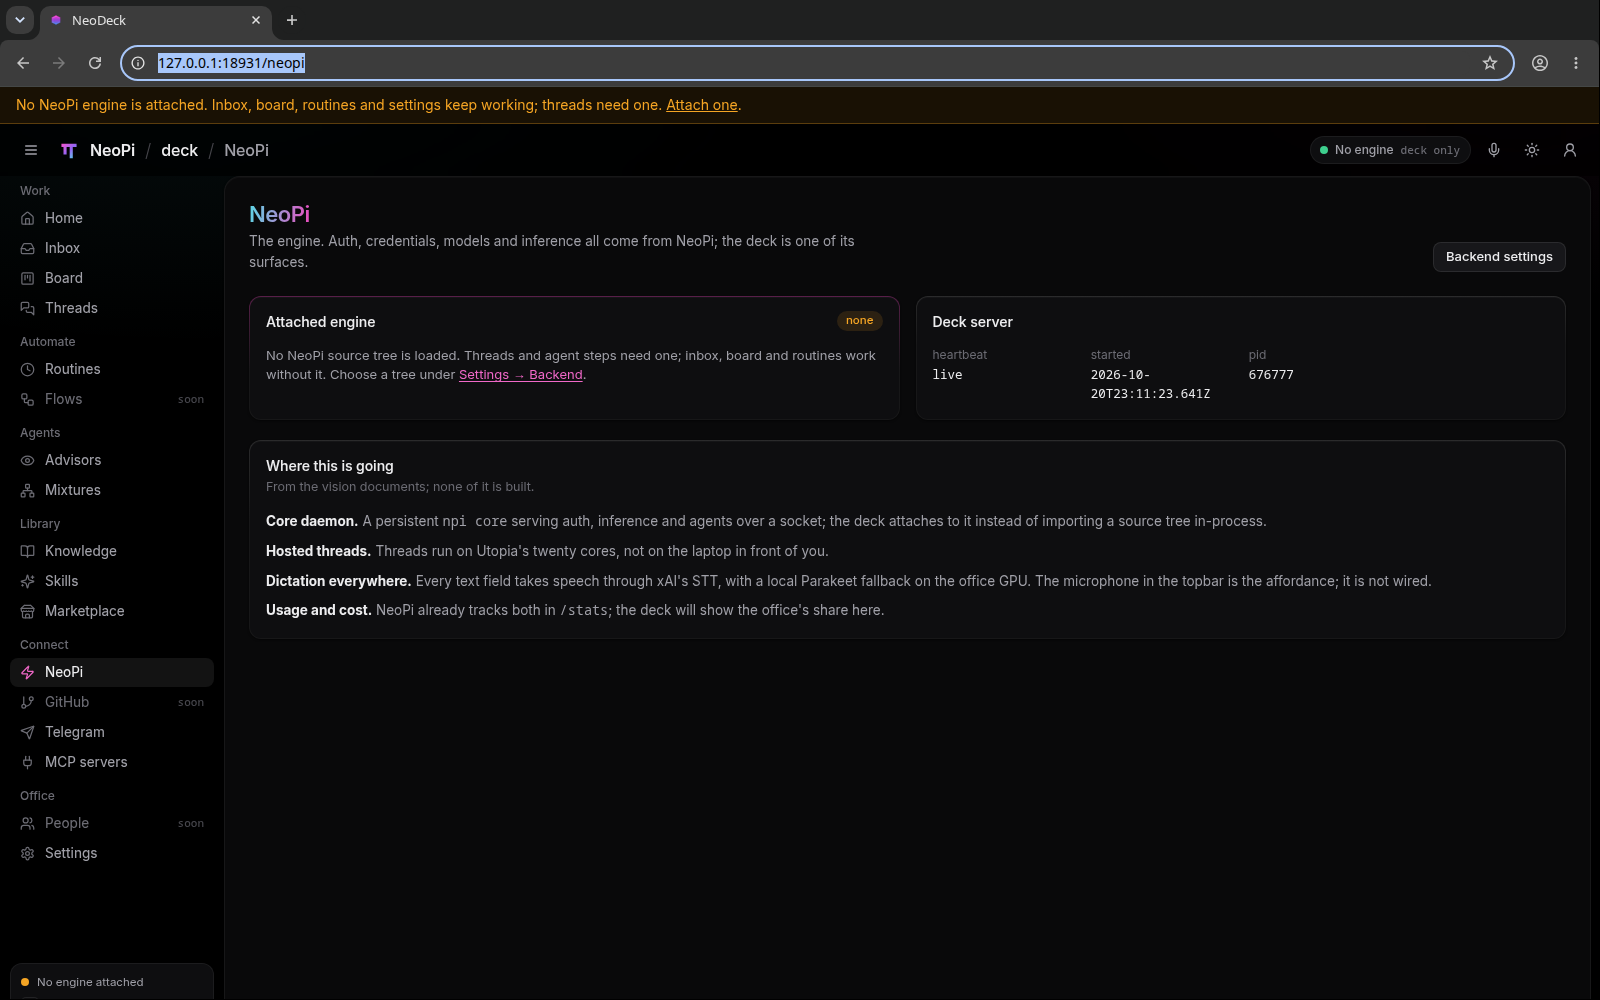
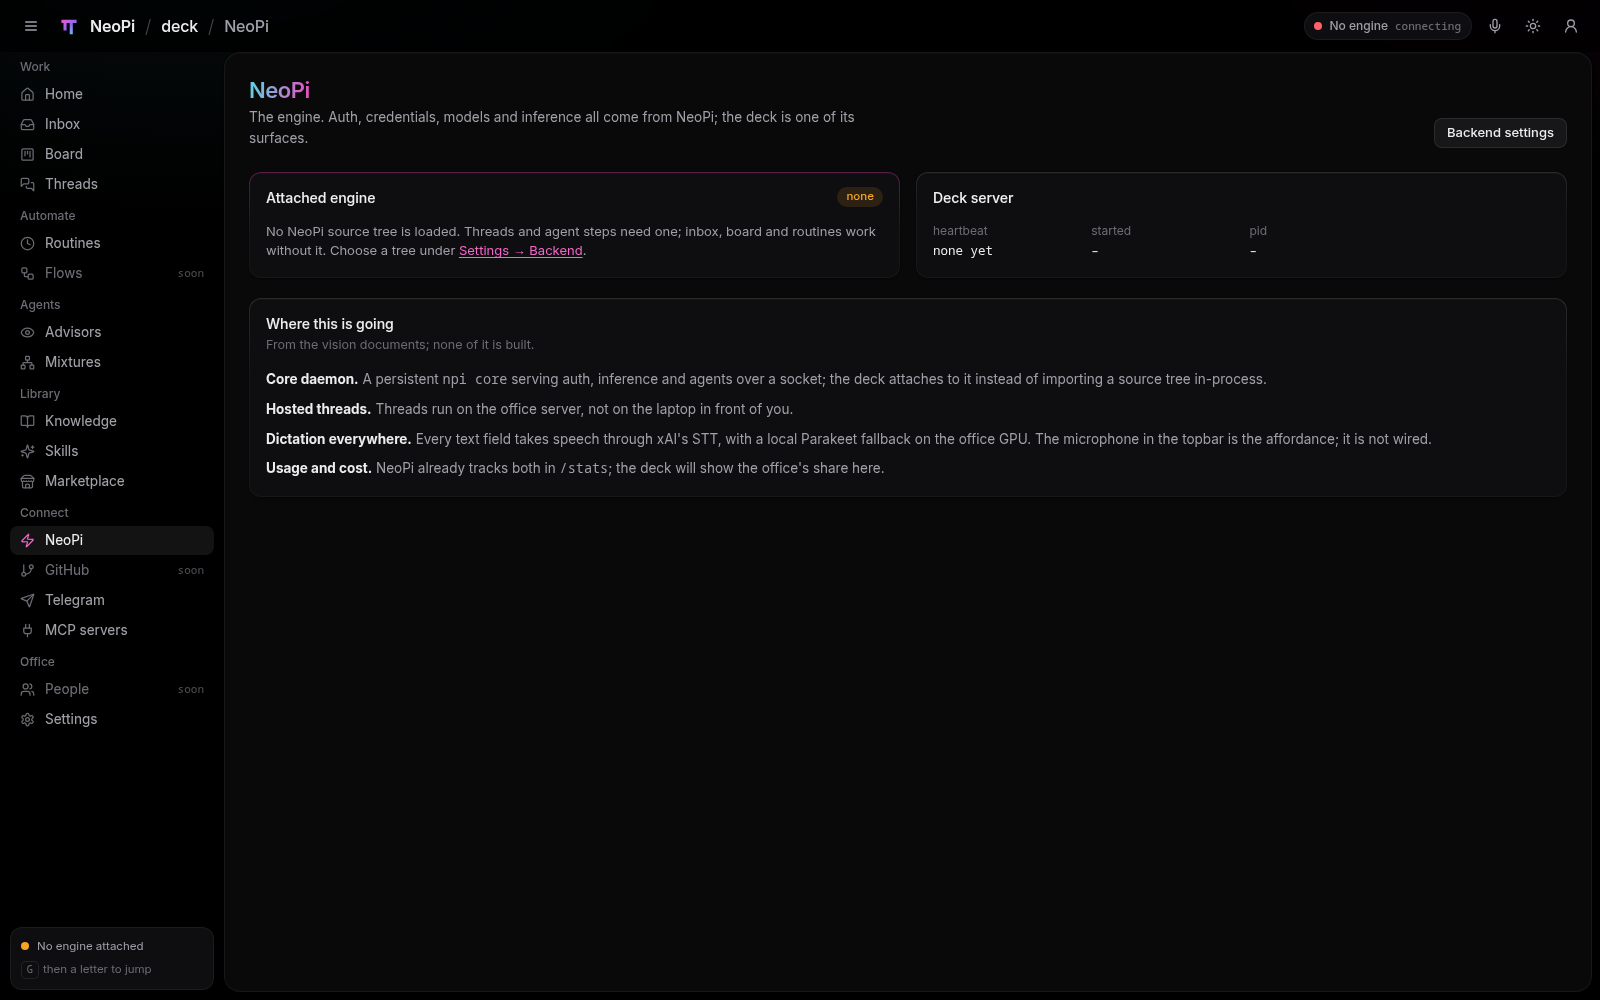
docs(screenshots): scrub private host references
Replace the office hostname in planned-feature copy and the associated NeoPi screenshot. Recapture the models reference in its stated light theme so the filename and appearance agree.

Verified with a local NeoDeck browser capture: the page shows “office server” and no Utopia; the stats models page renders with the light theme and empty data.

Model: openai-codex/gpt-6-luna

diff --git a/apps/web/src/views/PlannedViews.tsx b/apps/web/src/views/PlannedViews.tsx
@@ -53,7 +53,7 @@ function Plan({ items }: { items: ReadonlyArray<{ h: string; p: string }> }) {
 
 export function PeopleView() {
 	return (
-		<Planned title="People" summary="User accounts, sign-in, and who may touch what. The office logs into one NeoDeck on Utopia.">
+		<Planned title="People" summary="User accounts, sign-in, and who may touch what. The office logs into one NeoDeck on the office server.">
 			<Plan
 				items={[
 					{ h: "Accounts", p: "Each person signs in with a username. Private inbox, own threads and own drafts; the shared inbox and board are visible to the team." },
@@ -215,7 +215,7 @@ export function NeoPiView() {
 									instead of importing a source tree in-process.
 								</li>
 								<li>
-									<strong className="text-ink">Hosted threads.</strong> Threads run on Utopia's twenty cores, not on the laptop in front of you.
+									<strong className="text-ink">Hosted threads.</strong> Threads run on the office server, not on the laptop in front of you.
 								</li>
 								<li id="dictation">
 									<strong className="text-ink">Dictation everywhere.</strong> Every text field takes speech through xAI's STT, with a local Parakeet fallback on the office GPU. The
